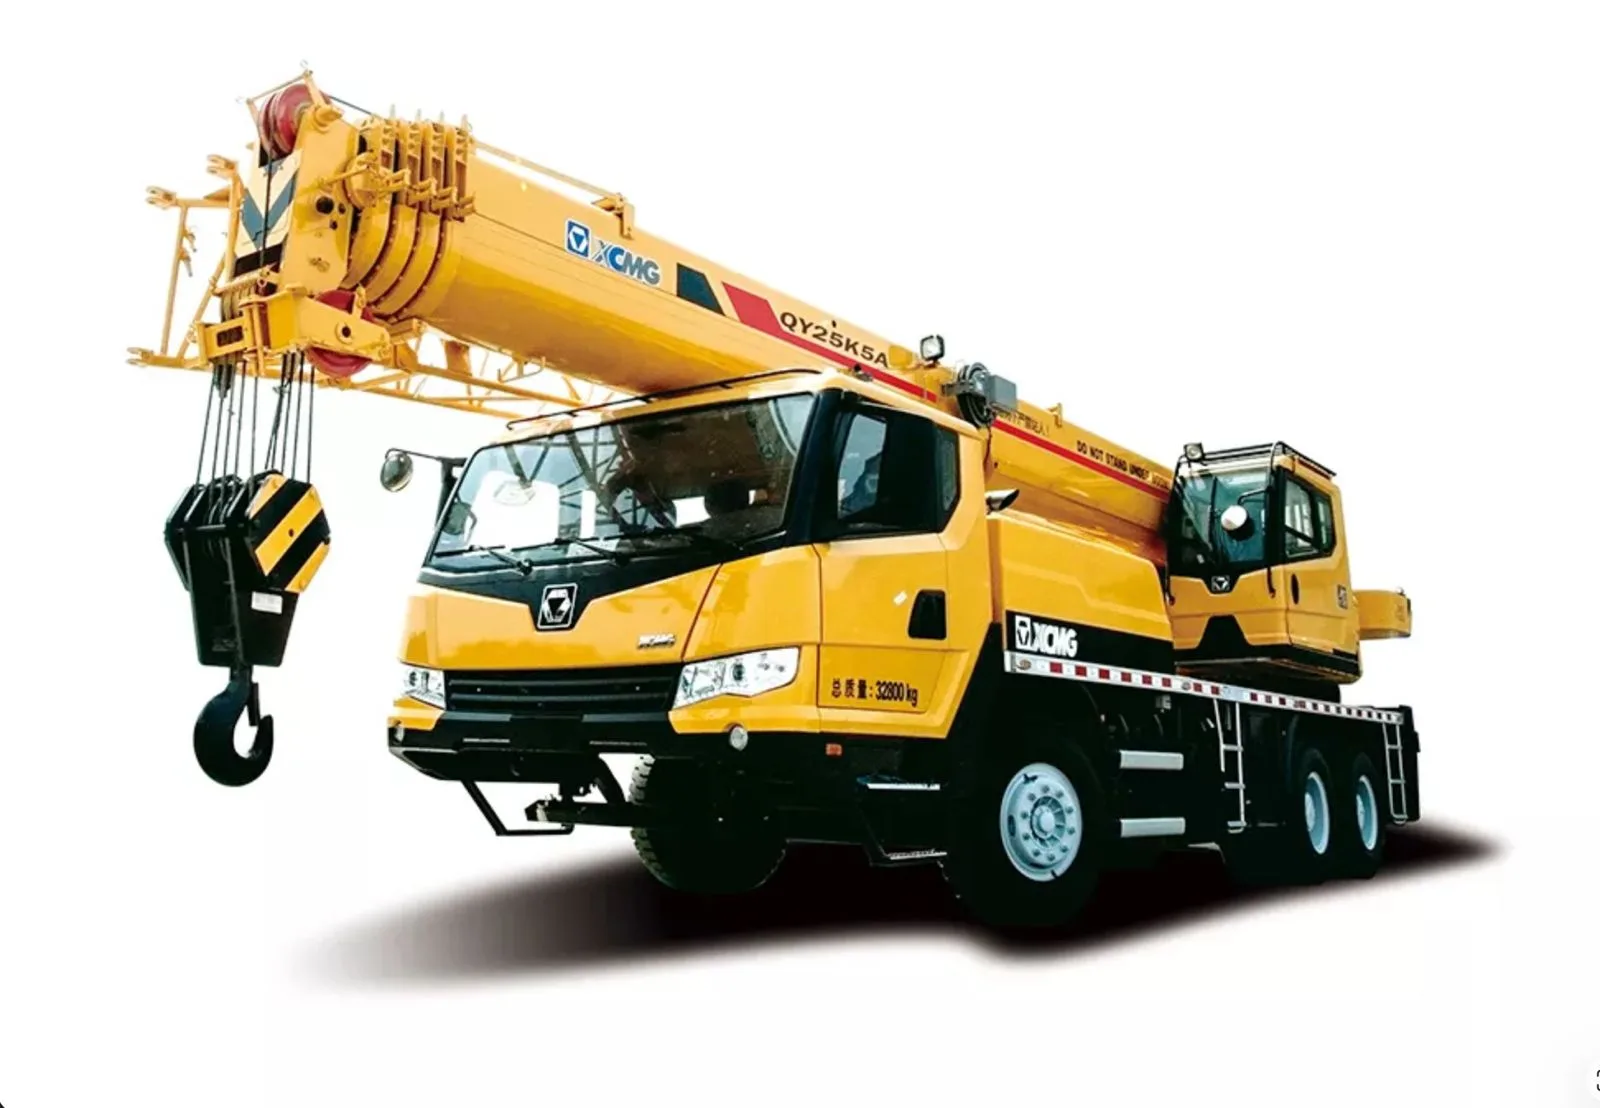
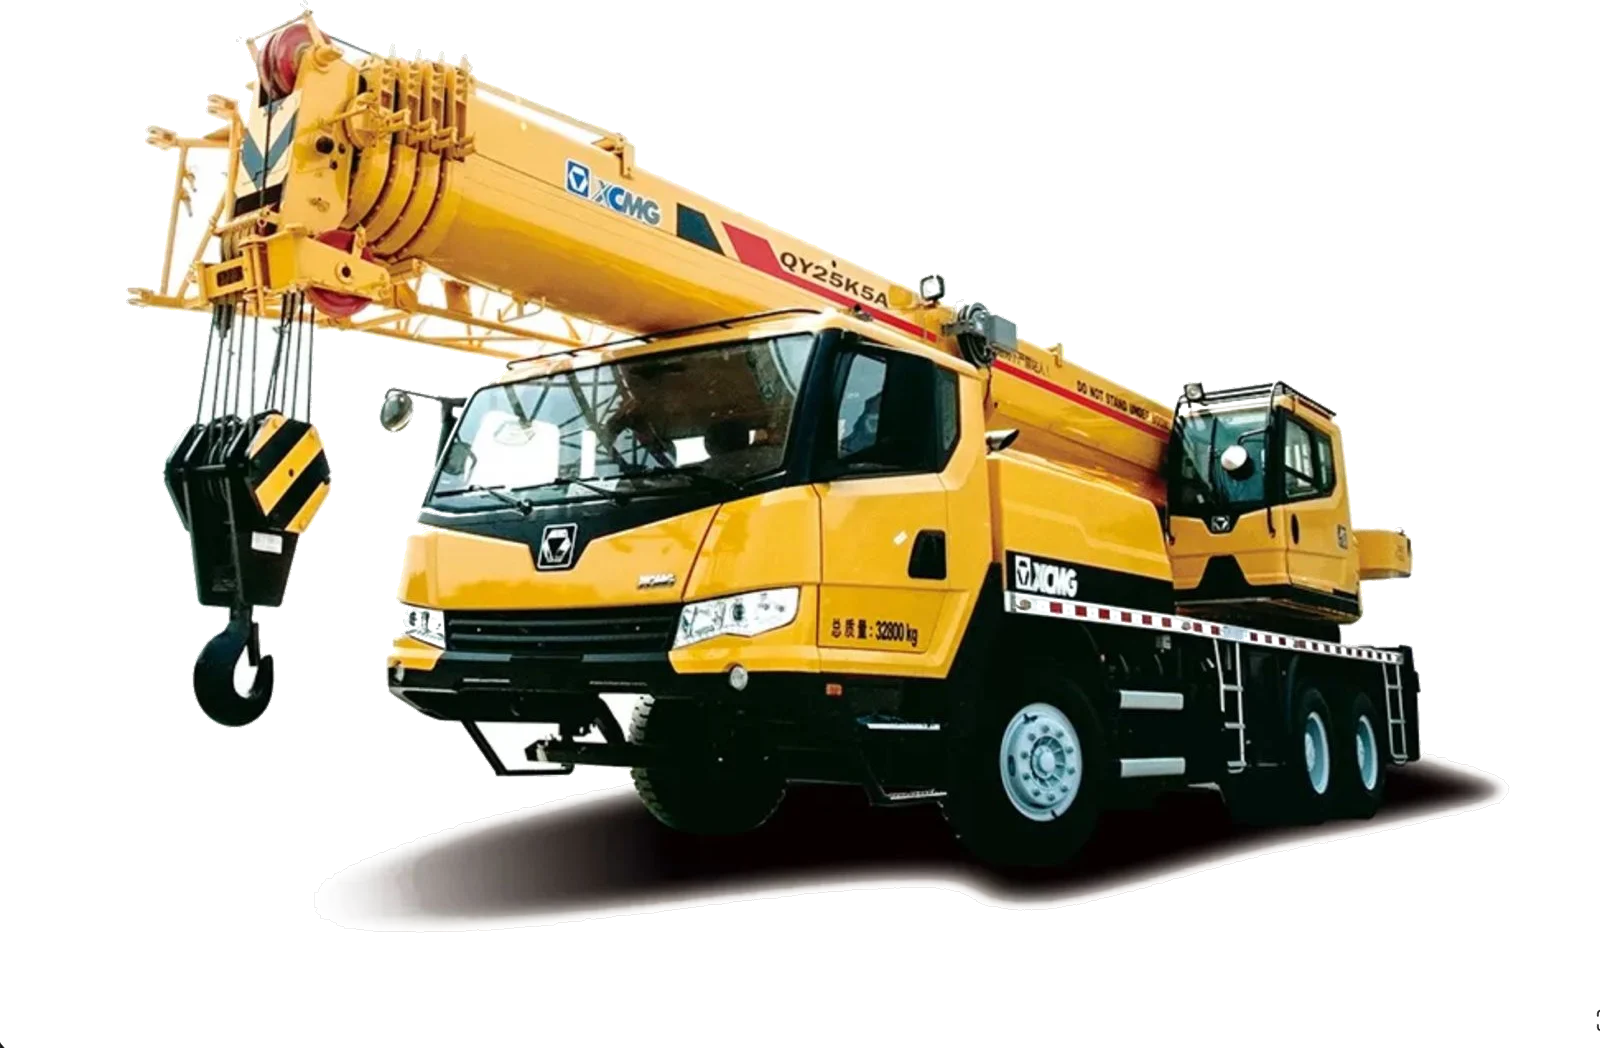
fix template fidelity: keep the orange, cut out photo backgrounds
Three things the first rollout got wrong, fixed in the pipeline so the next
client cannot repeat them.

Accent: brand.mjs still detects the client's colour, but apply.mjs no longer
applies it. The template's orange is tuned against every surface, shadow and
hover state; repainting it gold because the logo happens to be gold made the
build look worse, not more theirs. Recolour is now an explicit opt-in.

Backgrounds: catalogue shots dropped on the template's grey cards read as white
rectangles. New cutout pass floods the studio sweep inward from the border, so
white cabs and lettering survive where a global threshold would punch holes
through them; feathers the edge and divides the sweep back out of partial
pixels so no halo survives on dark surfaces; and fades the drop shadow through
a saturation test that leaves the paintwork alone. Border colour is taken from
the dominant edge colour rather than corner agreement — a crop that clips a dark
object into one corner no longer defeats it.

Inner-page heroes: restored the template's transparent object renders. Those
slots were never meant to hold a rectangular photo in the top-right corner; the
fleet hero now uses a crane cut-out, which fits the language and the client.

Changed region(s): [[0.0625, 0.0, 0.9375, 0.916], [0.5, 0.7328, 0.5312, 0.7634]]

diff --git a/src/app/globals.css b/src/app/globals.css
@@ -14,10 +14,10 @@
   --color-primary-800: #262626;
   --color-primary-900: #171717;
 
-  --color-accent: #B98934;
-  --color-accent-light: #CDAA6D;
-  --color-accent-dark: #906B29;
-  --color-accent-50: #F8F3EB;
+  --color-accent: #F56300;
+  --color-accent-light: #FF8330;
+  --color-accent-dark: #CC5200;
+  --color-accent-50: #FFF3EB;
 
   --color-surface: #FFFFFF;
   --color-surface-muted: #F5F5F0;

diff --git a/src/lib/constants.ts b/src/lib/constants.ts
@@ -44,7 +44,7 @@ export const PAGE_HEROES = {
     subtitle:
       'Eight standard crane classes from 25 to 250 tonnes, with capacity to 700 tonnes on request — all maintained and ready to mobilise across Dubai.',
     breadcrumb: 'Cranes',
-    image: '/images/fleet/crane-150t.webp',
+    image: '/images/fleet/crane-250t.webp',
   },
   solutions: {
     title: 'Lifting Solutions',

diff --git a/.claude/skills/newclient/SKILL.md b/.claude/skills/newclient/SKILL.md
@@ -76,9 +76,12 @@ Then Read `public/images/brand/logo.png` to confirm the background knockout and
 trim came out clean. If a solid background survived, raise `--tol`; if the
 knockout ate part of the artwork, lower it or pass `--keep-bg`.
 
-The script also picks the accent colour from the logo's own pixels, cross-checked
-against the colours used on the client's site. If the two disagree wildly, trust
-the logo and note it.
+The script also reports an accent colour derived from the logo's pixels.
+**It is reported, not applied.** The template's orange is the design — it is
+tuned against every surface, shadow and hover state in the system, and
+repainting it with whatever colour a client's logo happens to use makes the
+build look worse, not more theirs. Leave the orange alone unless the user
+explicitly asks for a recolour, in which case add `"accent"` to `site.json`.
 
 ## 4. Photography
 
@@ -89,13 +92,36 @@ node scripts/client/photos.mjs <slug>
 Read `.context/clients/<slug>/photos.png`, then import what is usable:
 
 ```bash
-node scripts/client/photos.mjs <slug> --use 1=fleet/<item> 14=main/hero ...
+node scripts/client/photos.mjs <slug> --cutout --use 1=fleet/<item> ...
 ```
 
 Prefer the client's real machines over the template's generic imagery — a
 contractor recognises their own equipment instantly. Skip stock-looking filler
 and anything from the theme demo. Where the client has no usable photo, leave
 the template image in place and flag the gap in your summary.
+
+**Know which slots take a photo and which take a cut-out.** Getting this wrong
+is the fastest way to make the build look cheap:
+
+| Slot | What belongs there |
+|---|---|
+| `main/hero`, `main/mission`, `project-*` | full-bleed **photography** |
+| `fleet/*`, `main/light‑medium‑heavy`, `PAGE_HEROES[*].image` | **transparent cut-outs**, no background |
+
+The template's inner-page heroes are floating objects on transparent
+backgrounds, never rectangular photos parked in the top-right corner. Look at
+`git show main:public/images/solutions/hero.webp` if you need the reference.
+
+Always pass `--cutout` for the cut-out slots. It flood-fills the studio sweep
+inward from the border (so white cabs and white lettering survive), feathers the
+edge, divides the background back out of semi-transparent pixels so there is no
+pale halo, and fades the drop shadow using a saturation test that leaves the
+paintwork alone. Verify by compositing the result on a dark background — a halo
+that is invisible on white is obvious on black.
+
+If a client's photos are shot on a real scene rather than a sweep, `--cutout`
+detects that and leaves them untouched. Those need proper segmentation (`rembg`,
+or a paid API) — flag it rather than shipping a bad mask.
 
 ## 5. Identity
 
